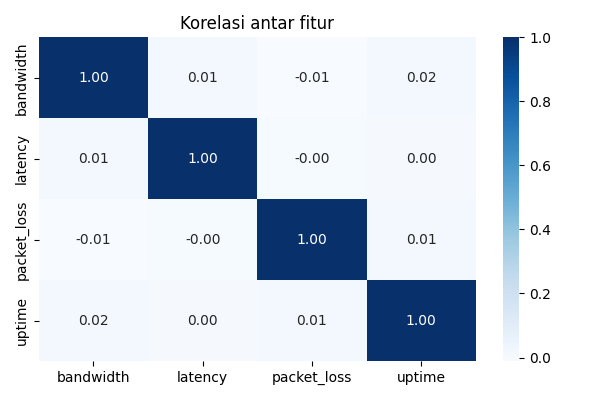
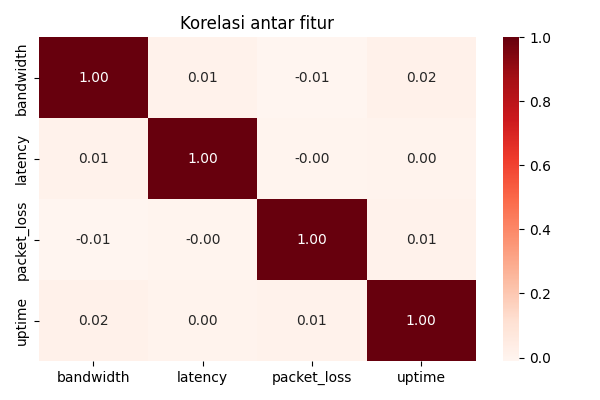
Perubahan Korelasi Menjadi Warna Merah

Changed region(s): [[0.06, 0.09, 0.81, 0.9], [0.84, 0.09, 0.87, 0.87]]

diff --git a/Supervised Learning/train_models.py b/Supervised Learning/train_models.py
@@ -220,7 +220,7 @@ for kolom in fitur_numerik:
 # Korelasi
 plt.figure(figsize=(6, 4))
 corr = df[fitur_numerik].corr()
-sns.heatmap(corr, annot=True, cmap="Blues", fmt=".2f")
+sns.heatmap(corr, annot=True, cmap="Reds", fmt=".2f")
 plt.title("Korelasi antar fitur")
 plt.tight_layout()
 plt.savefig(os.path.join(STATIC_DIR, "correlation_heatmap.png"))